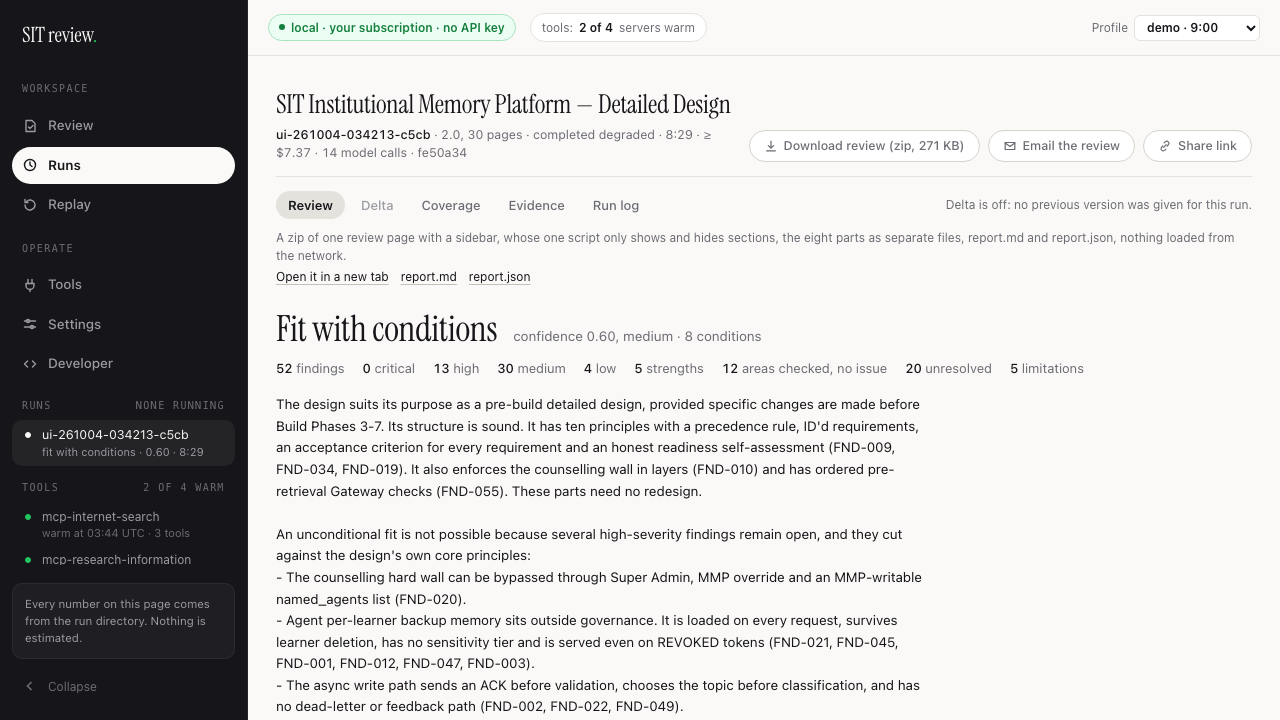
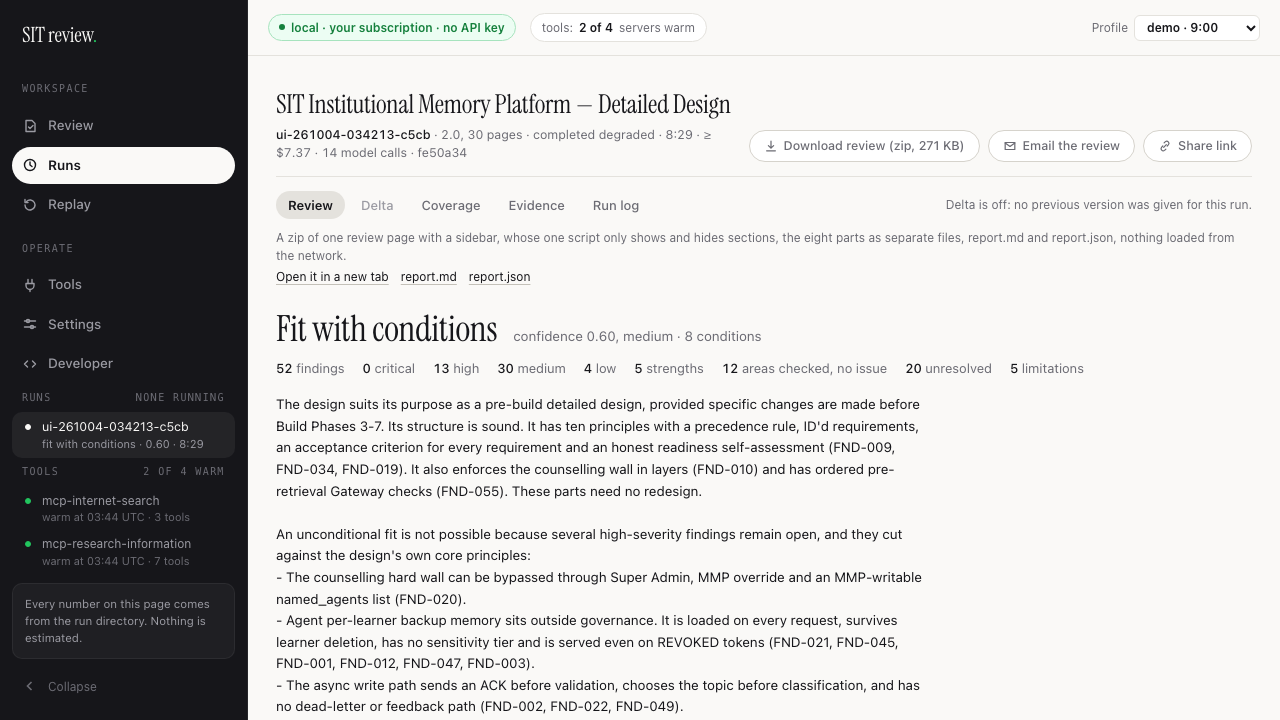
Fit the open run's row and 3 log lines in the rail at 1440x900
The rail's three section headers take 6 px of top padding instead of
14 px, which gives back the 24 px the rail needed: at 1440x900 the open
run's row and 3 whole lines of the Logs panel now show in the default
view with no rail scroll. The test asserts that default view.

Changed region(s): [[0.0312, 0.6722, 0.1562, 0.7944], [0.0312, 0.55, 0.1875, 0.6722], [0.0, 0.55, 0.0312, 0.5806]]

diff --git a/agent/sit_review_agent/ui/static/app.css b/agent/sit_review_agent/ui/static/app.css
@@ -50,7 +50,7 @@ ul { padding-left: 18px; margin: 0; }
 #rail-runs:has(.rail-run) { min-height: calc(2 * var(--run-pad) + var(--run-line) + var(--run-meta-line)); }
 #rail-tools { flex: none; }
 .rail-head { font-family: var(--mono); font-size: 10px; text-transform: uppercase; letter-spacing: .14em; color: var(--navrail-muted);
-  padding: 14px 10px 6px; display: flex; justify-content: space-between; gap: 8px; white-space: nowrap; }
+  padding: 6px 10px; display: flex; justify-content: space-between; gap: 8px; white-space: nowrap; }
 .rail-run { display: grid; grid-template-columns: 12px minmax(0, 1fr); column-gap: 8px; align-items: center; font-size: 12.5px;
   line-height: var(--run-line); color: var(--navrail-fg); padding: var(--run-pad) 10px; border-radius: var(--r-md); text-decoration: none; transition: background-color 150ms; }
 .rail-run:hover { background: var(--navrail-row); }

diff --git a/tests/test_ui_page.py b/tests/test_ui_page.py
@@ -458,7 +458,7 @@ RUN_ROW_BOXES = """() => { const row = document.querySelector('#rail-runs .rail-
 def test_the_open_runs_row_stays_in_view_beside_the_logs_panel(page) -> None:
     """The Runs list gave way first to the Logs panel and collapsed to 0 px at 1440x900: the header showed
     with no row, so the reader could not see which run was open. The list now keeps one whole row and
-    scrolls itself to the open run's row; the Logs panel keeps its 3 whole lines."""
+    scrolls itself to the open run's row; the Logs panel keeps its 3 whole lines, both in the default view."""
     pg, base, runs, state = page
     state.tools[:] = [{"name": f"server-{i}", "enabled": True} for i in range(4)]   # four, as config/tools.yaml
     for run in runs.iterdir():   # every run has a log first: writing one moves its run up the list
@@ -471,12 +471,12 @@ def test_the_open_runs_row_stays_in_view_beside_the_logs_panel(page) -> None:
     pg.goto(base + f"/?run={last}")
     pg.wait_for_function(f"document.querySelector('#rail-runs .rail-run.active').dataset.run === {last!r}")
     pg.wait_for_function("document.querySelectorAll('#rail-log .rail-logline').length === 60")
-    for where in ("opened", "logs in view"):
-        if where == "logs in view":
-            pg.evaluate("document.querySelector('.rail-log-frame').scrollIntoView({block: 'nearest'})")
-        m = pg.evaluate(RUN_ROW_BOXES)
-        assert m["list"][0] <= m["row"][0] and m["row"][1] <= m["list"][1], (where, m)   # whole inside the list
-        assert m["slot"][0] <= m["row"][0] and m["row"][1] <= m["slot"][1], (where, m)   # and inside the rail
+    # the default view at 1440x900 holds both, with no scroll of the rail: the open run's row ...
+    m = pg.evaluate(RUN_ROW_BOXES)
+    assert m["list"][0] <= m["row"][0] and m["row"][1] <= m["list"][1], m   # whole inside the list
+    assert m["slot"][0] <= m["row"][0] and m["row"][1] <= m["slot"][1], m   # and inside the rail
+    assert pg.evaluate("(s => s.scrollHeight <= s.clientHeight)(document.getElementById('navrail-slot'))")
+    # ... and at least 3 whole lines of the Logs panel
     m = pg.evaluate(LOG_BOXES)
     assert len(m["lines"]) >= 3, m
     assert m["lines"][0][0] >= m["top"] and m["lines"][-1][1] <= m["bottom"], m

diff --git a/docs/transcripts/session6/rail-runs-row.md b/docs/transcripts/session6/rail-runs-row.md
@@ -25,9 +25,12 @@ The 24 px overflow means the default view shows 1 whole log line until the slot 
 Scrolled to show the Logs, the RUNS header goes out of view above the row.
 Getting all of it on one screen needs 24 px from the rail chrome (for example the rail headers' 14 px top padding), which is a design call this card did not make.
 
+Planner ruling, second commit: the three rail section headers' top padding went from 14 px to 6 px, which takes the 24 px from the rail chrome.
+At 1440x900 the default view now shows the row (412.3 to 458.3) and 3 whole log lines (690.6 to 738.6) inside the slot (384.8 to 744.9) with no rail scroll; the test asserts that default view, and putting 14 px back makes it fail.
+
 ## Test and mutation
 New: `test_the_open_runs_row_stays_in_view_beside_the_logs_panel` (tests/test_ui_page.py, 1440x900, four tool servers as in config/tools.yaml, the open run is the last row of the list).
 Removing the `:has` min-height rule makes it fail; removing the list scroll line makes it fail; both files were restored and checked with `cmp`.
 
 ## Screenshots
-docs/transcripts/session6/ui-live/rail_runs_row_1440.png (Logs frame in view) and rail_runs_row_1280.png (default view).
+docs/transcripts/session6/ui-live/rail_runs_row_1440.png and rail_runs_row_1280.png, both the default view after the second commit.
